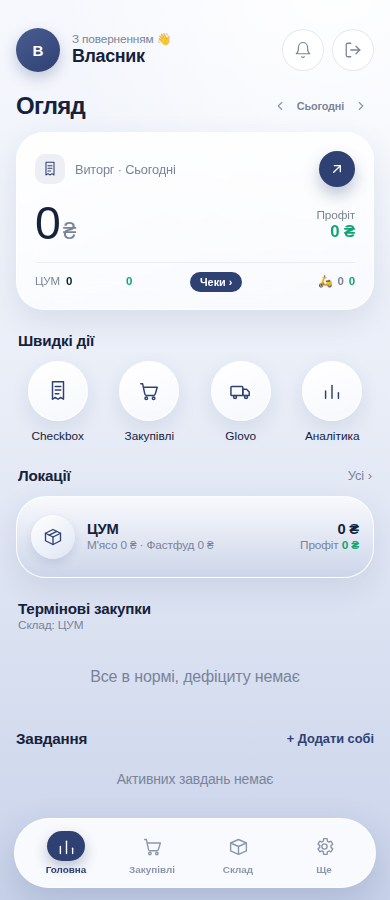
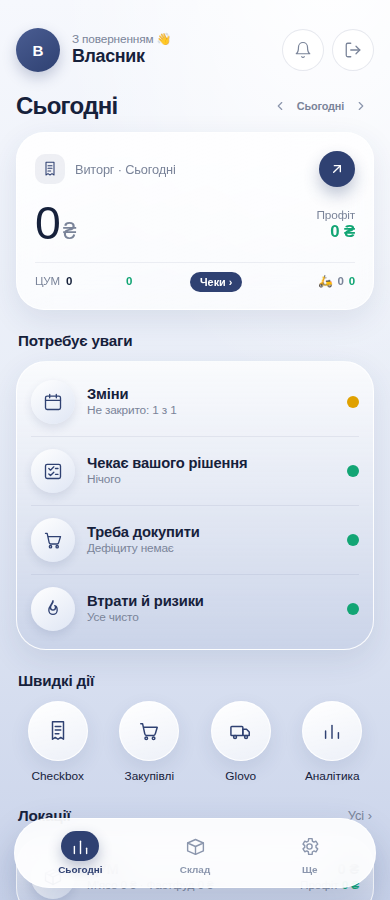
Спрощення: екран «Сьогодні» зі світлофором, 3 вкладки власника, налаштування по групах
Claude-Session: https://claude.ai/code/session_01Q5QvWGFTd6PwkeoJbymMG7

diff --git a/public/sklad.html b/public/sklad.html
@@ -495,7 +495,7 @@ let orderStep = 'products'; // 'location' | 'products' | 'cart'
 let orderCategoryFilter = null; // null (показуємо все) | 'meat' | 'fastfood' — тільки для екрана вибору товарів
 let orderSearchQuery = '';
 let expandedProductId = null;
-const APP_VERSION='2026-10-14.3';
+const APP_VERSION='2026-10-15.1';
 let optionPicks = {}; // groupId -> optionId, для товару, що розгорнуто в «Створити замовлення»
 let editingStaffId = null;
 let editingProductId = null;
@@ -3016,7 +3016,7 @@ function tabbar(){
   const isPrep = u && u.role==='prep';
   const isCashier = u && u.role==='cashier';
   const tabs = isOwner()
-    ? [['dashboard','dashboard'],['purchase','purchase'],['stock','stock'],['settings','settings']]
+    ? [['dashboard','dashboard'],['stock','stock'],['settings','settings']]
     : (isCook ? [['stock','stock'],['productionList','flame']]
       : (isPrep ? [['prepDashboard','dashboard'],['productionStart','flame'],['prepTransferLocations','transfer'],['myHistory','history']]
         : (isCashier ? [['stock','dashboard'],['purchase','purchase'],['scheduleCalendar','calendar'],['cashierRequest','transfer'],['myHistory','history']]
@@ -3044,10 +3044,11 @@ function tabbar(){
   // Власник відкрив поставку прямо зі "Складу точки" (картка в Аналітиці) — підсвічуємо той самий таб.
   if(view==='transferStart' && transferReturnTo==='locationStock') activeKey = 'dashboard';
   // "Закупівля" (нове поповнення складу закупівлею) відкрита з Закупівель, або, у касира, з власної вкладки «Закупка».
-  if(view==='purchaseCreate') activeKey = 'purchase';
-  if(isOwner() && (view==='prepTransferLocations' || view==='locationTransferNeeds' || (view==='transferStart' && transferReturnTo==='locationTransferNeeds'))) activeKey = 'purchase';
+  if(isOwner() && view==='purchase') activeKey = 'dashboard';
+  if(view==='purchaseCreate') activeKey = isOwner() ? 'dashboard' : 'purchase';
+  if(isOwner() && (view==='prepTransferLocations' || view==='locationTransferNeeds' || (view==='transferStart' && transferReturnTo==='locationTransferNeeds'))) activeKey = 'dashboard';
   const bar = el(`<div class="navbar-pill navbar-tabs"></div>`);
-  const LABELS = { dashboard:'Головна', purchase:'Закупівлі', stock:'Склад', settings:'Ще', productionList:'Готовка',
+  const LABELS = { dashboard:'Сьогодні', purchase:'Закупівлі', stock:'Склад', settings:'Ще', productionList:'Готовка',
     prepDashboard:'Головна', productionStart:'Готовка', prepTransferLocations:'Поставки', myHistory:'Історія',
     scheduleCalendar:'Графік', cashierRequest:'Запит', history:'Історія' };
   const canSell = false; // замовлення з застосунку створювати не можна — продажі лише з чеків Checkbox
@@ -3260,6 +3261,51 @@ function analyticsView(){
   return wrap;
 }
 
+// «Що потребує уваги»: чотири світлофори замість десятків екранів. Червоне/жовте — тапніть, щоб відкрити, де це виправити.
+function ownerAttentionCards(){
+  const today = localDateKey(new Date());
+  const items = [];
+  // 1. Зміни
+  const sched = (state.shiftSchedule||[]).filter(e=>e.dateKey===today);
+  const closings = (state.shiftClosings||[]).filter(c=>c.dateKey===today);
+  const closedIds = new Set(closings.map(c=>c.staffId));
+  const openShifts = sched.filter(e=>!closedIds.has(e.staffId));
+  const badLines = [];
+  closings.forEach(c=>(c.lines||[]).forEach(l=>{ if(l.diff) badLines.push(l); }));
+  if(!sched.length) items.push({ico:'calendar', lvl:'ok', title:'Зміни', sub:'Сьогодні змін немає в графіку', go:()=>{view='scheduleCalendar';render();}});
+  else if(openShifts.length) items.push({ico:'calendar', lvl:'warn', title:'Зміни', sub:`Не закрито: ${openShifts.length} з ${sched.length}`, go:()=>{view='scheduleCalendar';render();}});
+  else if(badLines.length) items.push({ico:'calendar', lvl:'warn', title:'Зміни', sub:`Усі закрито, розбіжностей: ${badLines.length}`, go:()=>{view='scheduleCalendar';render();}});
+  else items.push({ico:'calendar', lvl:'ok', title:'Зміни', sub:`Усі закрито (${sched.length}), розбіжностей немає`, go:()=>{view='scheduleCalendar';render();}});
+  // 2. Чекає рішення
+  const pend = (state.transferCorrections||[]).filter(c=>c.status==='PENDING').length;
+  if(pend) items.push({ico:'checklist', lvl:'bad', title:'Чекає вашого рішення', sub:`Виправлень поставок: ${pend}`, go:()=>{view='transferList';render();}});
+  else items.push({ico:'checklist', lvl:'ok', title:'Чекає вашого рішення', sub:'Нічого', go:()=>{view='transferList';render();}});
+  // 3. Дефіцит
+  const low = (state.stockItems||[]).filter(itemIsLow);
+  items.push(low.length
+    ? {ico:'purchase', lvl:'warn', title:'Треба докупити', sub:`Позицій нижче мінімуму: ${low.length}`, go:()=>{view='stock';render();}}
+    : {ico:'purchase', lvl:'ok', title:'Треба докупити', sub:'Дефіциту немає', go:()=>{view='stock';render();}});
+  // 4. Втрати
+  const neg = (state.stockItems||[]).filter(i=>Number(i.qty)<0).length;
+  const stuck = (state.transfers||[]).filter(t=>t.status==='SENT' && t.createdMs && Date.now()-t.createdMs>24*3600*1000).length;
+  const lossBits = [];
+  if(neg) lossBits.push(`мінус на складі: ${neg}`);
+  if(stuck) lossBits.push(`поставки в дорозі >1 доби: ${stuck}`);
+  items.push(lossBits.length
+    ? {ico:'flame', lvl:'bad', title:'Втрати й ризики', sub:lossBits.join(' · '), go:()=>{view=neg?'stock':'transferList';render();}}
+    : {ico:'flame', lvl:'ok', title:'Втрати й ризики', sub:'Усе чисто', go:()=>{view='stock';render();}});
+  const col = {ok:'var(--accent2)', warn:'#e0a100', bad:'var(--danger)'};
+  const panel = el(`<div class="panel"></div>`);
+  items.forEach(it=>{
+    const row = el(`<div class="tx"><div class="avatar soft" style="color:${col[it.lvl]}">${ICONS[it.ico]}</div><div class="tx-main"><div class="tx-name">${escapeHtml(it.title)}</div><div class="tx-sub">${escapeHtml(it.sub)}</div></div><div style="width:12px;height:12px;border-radius:50%;background:${col[it.lvl]};flex-shrink:0"></div></div>`);
+    row.onclick = it.go; panel.appendChild(row);
+  });
+  const box = el(`<div></div>`);
+  box.appendChild(el(`<div class="sec-head"><div class="sec-title">Потребує уваги</div></div>`));
+  box.appendChild(panel);
+  return box;
+}
+
 function dashboardView(){
   const wrap = el(`<div></div>`);
 
@@ -3271,7 +3317,7 @@ function dashboardView(){
   const dateKey = dateKeyFromOffset(dashboardOffset);
   const headRow = el(`
     <div class="flex items-center justify-between mb-3">
-      <div class="page-title">Огляд</div>
+      <div class="page-title">Сьогодні</div>
       <div class="flex items-center gap-1">
         <button id="dPrev" class="navicon-btn" style="width:26px;height:26px" ${dashboardOffset>=6?'disabled':''}>
           <svg viewBox="0 0 24 24" width="14" height="14" fill="none" stroke="${dashboardOffset>=6?'#b7c0d3':'var(--text)'}" stroke-width="2" stroke-linecap="round" stroke-linejoin="round"><path d="M15 18l-6-6 6-6"/></svg>
@@ -3319,6 +3365,7 @@ function dashboardView(){
   hero.querySelectorAll('.hero-chk').forEach(b=>{ b.onclick = (e)=>{ e.stopPropagation(); receiptsLocationId = b.getAttribute('data-loc'); view='receipts'; render(); }; });
   hero.querySelector('#heroGo').onclick = ()=>{ view='analytics'; render(); };
   wrap.appendChild(hero);
+  wrap.appendChild(ownerAttentionCards());
 
   // --- Швидкі дії ---
   wrap.appendChild(el(`<div class="sec-head"><div class="sec-title">Швидкі дії</div></div>`));
@@ -8337,21 +8384,29 @@ function settingsView(){
   const wrap = el(`<div></div>`);
 
   // --- Навигационный список разделов ---
-  const navItems = [
-    { label: 'Меню і ціни', icon: 'tag', action: ()=>{ view='menu'; render(); } },
-    { label: 'Поставки', icon: 'transfer', action: ()=>{ view='transferList'; render(); } },
-    { label: 'Склади', icon: 'box', action: ()=>{ view='stock'; render(); } },
-    { label: 'Зарплати й виплати', icon: 'receipt', action: ()=>{ payrollPeriod=null; view='payroll'; render(); } },
-    { label: 'Аналітика', icon: 'dashboard', action: ()=>{ view='analytics'; render(); } },
-    { label: 'Графік змін', icon: 'calendar', action: ()=>{ view='scheduleCalendar'; render(); } },
-    { label: 'Завдання', icon: 'checklist', action: ()=>{ view='tasks'; render(); } },
-    { label: 'Checkbox', icon: 'receipt', action: ()=>{ cbUi.cfg=null; view='checkbox'; render(); } },
-    { label: 'Продажі Glovo', icon: 'truck', action: ()=>{ glovoTab='sales'; view='glovo'; render(); } }
+  const groups = [
+    ['Щодня', [
+      { label: 'Аналітика', icon: 'dashboard', action: ()=>{ view='analytics'; render(); } },
+      { label: 'Закупівлі', icon: 'purchase', action: ()=>{ view='purchase'; render(); } },
+      { label: 'Поставки', icon: 'transfer', action: ()=>{ view='transferList'; render(); } },
+      { label: 'Завдання', icon: 'checklist', action: ()=>{ view='tasks'; render(); } }
+    ]],
+    ['Люди', [
+      { label: 'Графік змін', icon: 'calendar', action: ()=>{ view='scheduleCalendar'; render(); } },
+      { label: 'Зарплати й виплати', icon: 'receipt', action: ()=>{ payrollPeriod=null; view='payroll'; render(); } }
+    ]],
+    ['Продукти', [
+      { label: 'Меню і ціни', icon: 'tag', action: ()=>{ view='menu'; render(); } },
+      { label: 'Рецепти', icon: 'leaf', action: ()=>{ view='ingredients'; render(); } },
+      { label: 'Норми розхідників', icon: 'checklist', action: ()=>{ view='supplyNorms'; render(); } }
+    ]],
+    ['Продажі', [
+      { label: 'Checkbox', icon: 'receipt', action: ()=>{ cbUi.cfg=null; view='checkbox'; render(); } },
+      { label: 'Продажі Glovo', icon: 'truck', action: ()=>{ glovoTab='sales'; view='glovo'; render(); } }
+    ]]
   ];
-  // Рідше потрібне — згорнуто в «Додатково», щоб головний список був коротким.
+  // Рідко потрібне — згорнуто в «Додатково».
   const moreItems = [
-    { label: 'Рецепти', icon: 'leaf', action: ()=>{ view='ingredients'; render(); } },
-    { label: 'Норми розхідників', icon: 'checklist', action: ()=>{ view='supplyNorms'; render(); } },
     { label: 'Зв\'язки готовки', icon: 'link', action: ()=>{ view='productionLinks'; render(); } },
     { label: 'Нова заготовка', icon: 'flame', action: ()=> openPrepare(null, 'settings') },
     { label: 'Нова готовка', icon: 'flame', action: ()=>{ view='productionStart'; render(); } },
@@ -8368,9 +8423,12 @@ function settingsView(){
     row.onclick = item.action;
     return row;
   };
-  const navGrid = el(`<div class="grid grid-cols-2 gap-x-3 mb-2"></div>`);
-  navItems.forEach(item=> navGrid.appendChild(mkNavRow(item)));
-  wrap.appendChild(navGrid);
+  groups.forEach(([title, list])=>{
+    wrap.appendChild(el(`<div class="eyebrow" style="margin:10px 0 2px">${escapeHtml(title)}</div>`));
+    const g = el(`<div class="grid grid-cols-2 gap-x-3 mb-1"></div>`);
+    list.forEach(item=> g.appendChild(mkNavRow(item)));
+    wrap.appendChild(g);
+  });
   const moreToggle = el(`<button class="text-sm font-semibold mb-3" style="color:var(--accent);background:none;border:none;padding:4px 0">${settingsMoreOpen?'▾':'▸'} Додатково</button>`);
   moreToggle.onclick = ()=>{ settingsMoreOpen = !settingsMoreOpen; render(); };
   wrap.appendChild(moreToggle);

diff --git a/tests/home.test.js b/tests/home.test.js
@@ -1,0 +1,27 @@
+const { chromium } = require('playwright'); const fs=require('fs');
+(async()=>{
+  const b=await chromium.launch(require('./_env').launchOpts); const p=await b.newPage({viewport:{width:390,height:1100}});
+  p.on('pageerror',e=>console.log('PAGEERR',e.message)); p.on('dialog',d=>d.dismiss());
+  await p.route('**://cdn.tailwindcss.com/**',r=>r.abort()); await p.route('**://fonts.g*/**',r=>r.abort()); await p.route('**://telegram.org/**',r=>r.abort());
+  let version=1, data={locations:[{id:'L1',name:'ЦУМ'}],warehouses:[{id:'wBase',name:'База'},{id:'wC',name:'ЦУМ',locationId:'L1'}],staff:[{id:'o',name:'Власник',pin:'1111',role:'owner',locationId:'L1'},{id:'c',name:'Каса',pin:'2222',role:'cashier',locationId:'L1'},{id:'pp',name:'Заг',pin:'3333',role:'prep',locationId:'L1'}],shiftSchedule:[{id:'s1',dateKey:new Date().toLocaleDateString('sv'),staffId:'c',locationId:'L1'}],
+    stockItems:[{id:'r1',warehouseId:'wBase',name:'Сирі крила',unit:'кг',qty:50,min:0,costPerUnit:5,category:'fastfood',section:'raw'},{id:'r2',warehouseId:'wC',name:'Сирі крила',unit:'кг',qty:0,min:0,costPerUnit:5,category:'fastfood',section:'raw'},{id:'b1',warehouseId:'wBase',name:'Крила BBQ',unit:'кг',qty:10,min:0,costPerUnit:8,category:'fastfood',section:'prep'},{id:'b2',warehouseId:'wC',name:'Крила BBQ',unit:'кг',qty:1,min:5,costPerUnit:8,category:'fastfood',section:'prep'},{id:'s_1',warehouseId:'wC',name:'Пакети',unit:'шт',qty:10,min:0,costPerUnit:1,category:'fastfood',section:'supplies'},{id:'s_2',warehouseId:'wC',name:'Серветки',unit:'шт',qty:5,min:0,costPerUnit:1,category:'fastfood',section:'supplies'},{id:'s_3',warehouseId:'wC',name:'Курка',unit:'кг',qty:3,min:0,costPerUnit:1,category:'meat'},{id:'m1',warehouseId:'wBase',name:'Курка',unit:'кг',qty:1,min:10,costPerUnit:5,category:'meat'},{id:'f1',warehouseId:'wBase',name:'Лаваш',unit:'шт',qty:2,min:10,costPerUnit:5,category:'fastfood'}],
+    recipeIngredients:[{id:'ing1',name:'Соус',unit:'кг',yieldAmount:1,components:[],warehouseId:null}],ingredientStock:[],history:[],products:[],orders:[],sales:[],transfers:[],payouts:[]};
+  await p.route('**/api/**',async r=>{const req=r.request();const path=new URL(req.url()).pathname;const j=(s,o)=>r.fulfill({status:s,contentType:'application/json',body:JSON.stringify(o)});
+    if(path==='/api/auth/login')return j(200,{staffId:JSON.parse(req.postData()||'{}').pin==='1111'?'o':'c'}); if(path.startsWith('/api/checkbox'))return j(200,{enabled:false,pending:0});
+    if(path==='/api/state'&&req.method()==='GET')return j(200,{version,data}); if(path==='/api/state'){const bb=JSON.parse(req.postData());version++;data=bb.data;return j(200,{version});} return j(404,{});});
+  await p.goto(require('./_env').HTML_URL);
+  await p.addStyleTag({content:fs.readFileSync(require('./_env').CSS_PATH,'utf8')});
+  await p.fill('#pinInput','1111'); await p.evaluate(()=>document.getElementById('loginBtn').click()); await p.waitForTimeout(1200);
+  const R=[];const check=(n,ok)=>{R.push(ok);console.log((ok?'PASS ':'FAIL ')+n)};
+  let t=await p.evaluate(()=>document.body.innerText);
+  check('owner home titled Сьогодні with attention block', t.includes('Сьогодні') && t.includes('Потребує уваги'));
+  check('owner has 3 tabs (no Закупівлі tab)', await p.evaluate(()=>document.querySelectorAll('.navbar-tabs .navitem').length===3));
+  check('all four cards present', ['Зміни','Чекає вашого рішення','Треба докупити','Втрати й ризики'].every(x=>t.includes(x)));
+  await p.evaluate(()=>{ state.stockItems.push({id:'neg',warehouseId:'wC',name:'Мінусовий',unit:'шт',qty:-3,min:0,costPerUnit:1,category:'meat'}); state.transferCorrections=[{id:'c1',transferId:'x',status:'PENDING',lines:[]}]; render(); });
+  t=await p.evaluate(()=>document.body.innerText);
+  check('negative stock + pending correction flagged', t.includes('мінус на складі: 1') && t.includes('Виправлень поставок: 1'));
+  await p.evaluate(()=>{ view='settings'; render(); }); await p.waitForTimeout(200);
+  t=await p.evaluate(()=>document.body.innerText);
+  check('settings grouped', ['Щодня','Люди','Продукти','Продажі'].every(x=>t.includes(x)));
+  console.log(R.every(Boolean)?'ALL PASS':'SOME FAIL'); await b.close();
+})();
